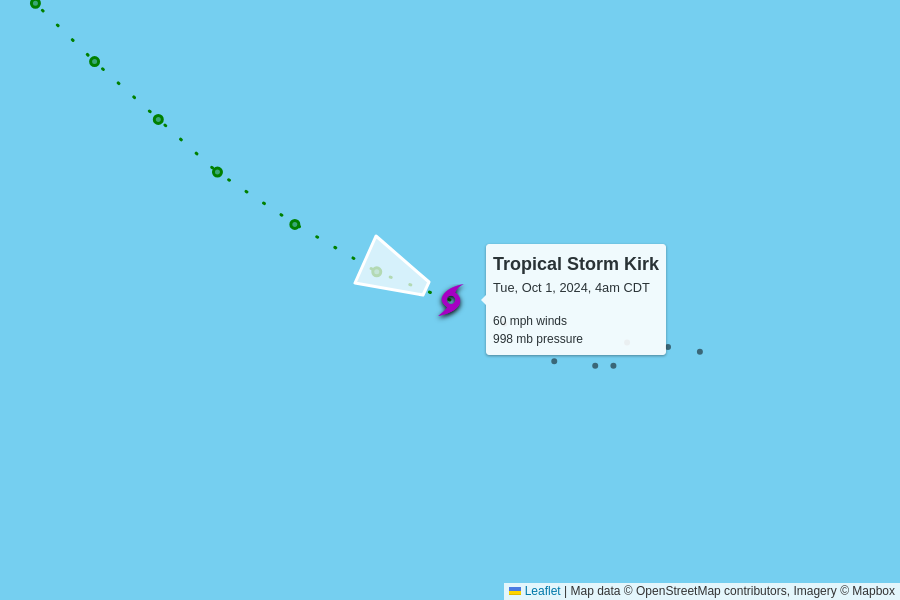
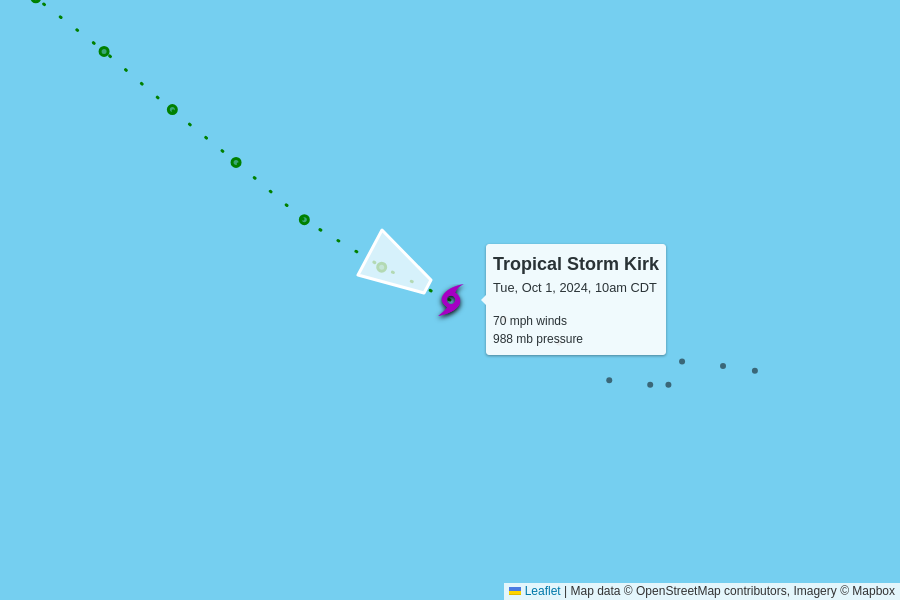
automatic update

diff --git a/docs/index.html b/docs/index.html
@@ -102,7 +102,7 @@
         <td colspan="6" class="storm category-0" >
           <h2>
             Tropical Storm Kirk
-            <p class="updated">last updated <span data-time>2024-10-01T09:00:00.000Z</span></p>
+            <p class="updated">last updated <span data-time>2024-10-01T15:00:00.000Z</span></p>
           </h2>
         </td>
       </tr>
@@ -117,12 +117,12 @@
       </tr>
       <tr>
         <td class="spacer"></td>
-        <td>60 mph<br>0 mph since last update</td>
-        <td>998 mb<br>0 mb since last update</td>
+        <td>70 mph<br>+10 mph since last update</td>
+        <td>988 mb<br>-10 mb since last update</td>
         <td>
-          14 mph to the west-northwest
+          13 mph to the west-northwest
           <br/>
-          <span style="display: inline-block; font-size: 1.5em; transform: rotate(295deg);">↑</span>
+          <span style="display: inline-block; font-size: 1.5em; transform: rotate(300deg);">↑</span>
         </td>
         <td><a href="https://raw.githubusercontent.com/mgwalker/atlantic-hurricanes/main/data/csv/AL122024.csv">AL122024.csv</a></td>
         <td><a href="https://www.nhc.noaa.gov/archive/2024/KIRK.shtml?">NHC advisories</a></td>
